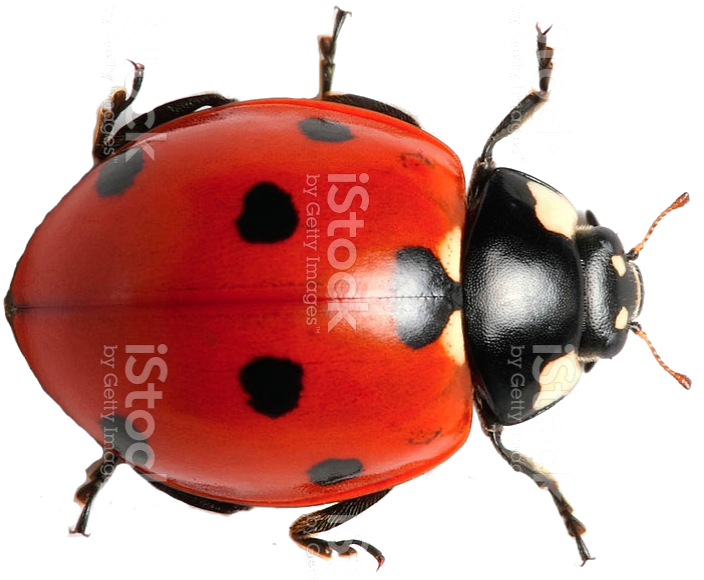
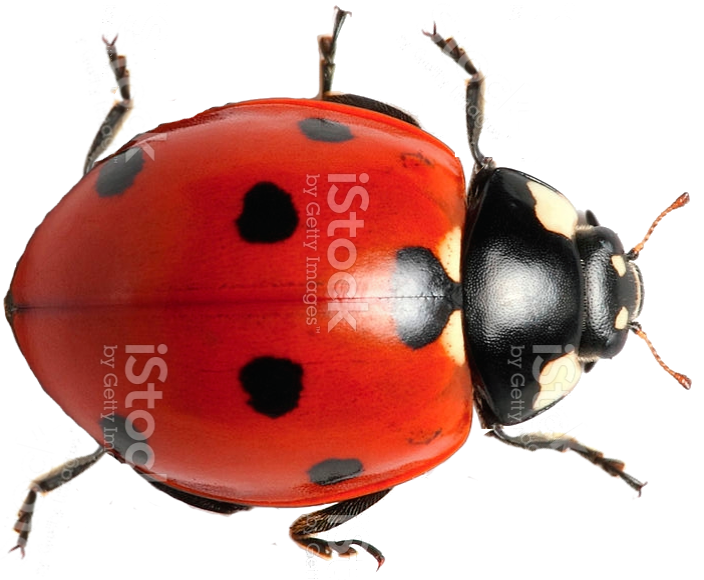
added flip animation to lady bug

diff --git a/Assets/LadyBug.cs b/Assets/LadyBug.cs
@@ -52,12 +52,10 @@ public class LadyBug : MonoBehaviour
                 targetPosition = _gameMap.GetRandomPosition();
               
             }
-             
-            
-
 
             moveSpeed = baseSpeed * speedMultiplier;
-            //targetPosition = _gameMap.GetRandomPosition();
+            Debug.Log(moveSpeed);
+       
             isMoving = true;
         }
     }
@@ -71,8 +69,13 @@ public class LadyBug : MonoBehaviour
                 float angle = Mathf.Atan2(moveDirection.y, moveDirection.x) * Mathf.Rad2Deg;
                 rb.transform.rotation = Quaternion.AngleAxis(angle, Vector3.forward);
             }
-            
 
+            if((Time.frameCount*moveSpeed) % 8 == 0)
+            {
+                Vector3 lTemp = transform.localScale;
+                lTemp.y = transform.localScale.y * -1;
+                transform.localScale = lTemp;
+            }
             //moving
             float step = moveSpeed * Time.deltaTime;
             rb.position = Vector2.MoveTowards(rb.position, targetPosition, step);
